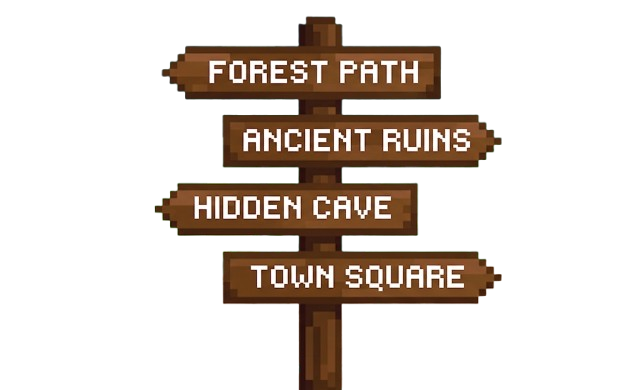
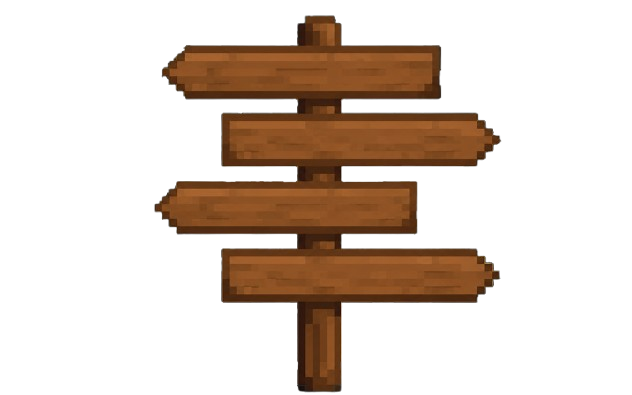
dashboard basically complete, and forest navigation page has been added, adn right now, treesapling gets planted on set time interval

Changed region(s): [[0.2405, 0.0308, 0.8117, 1.0]]

diff --git a/public/dashboard.html b/public/dashboard.html
@@ -9,35 +9,56 @@
 </head>
 <body>
     
-    <!--Big breakthrough here. Couldn't figure out how to center the text on teh sign post for a while! The main issue was felx, oncce removed it wokred, but i needed flex. 
+    <!--Big breakthrough here. Couldn't figure out how to center the text on teh sign post for a while! After some reserach, The main issue was felx, oncce removed it wokred, but i needed flex. 
     by default, tailwind flex prop appplies a stretch properpty to the items, and it stretched the sign to the height of the screen(the wrapper, not the img itself). 
     to stop this, I can use items-start to stop teh stretching and bring back to the actual size! Whew!
     -->
         <div class="mainDiv flex items-start  overflow-hidden w-screen h-screen relative">
-            
-            <div class="relative top-[45%] left-[46%] w-64 sm:w-72 md:w-80">
+            <div class="absolute top-[5%] left-[3%] w-64 sm:w-72 md:w-80">
+                <img class="w-14 h-14 rounded-full border-2 border-emerald-300" src="./assets/grid.png"/>
+            </div>
+
+            <div class="absolute top-[10%] left-[90%]">
+                <div class="absolute top-[36%] bottom-[40%] left-[22%] right-[22%] flex flex-col items-center justify-center gap-1 text-center px-6 z-10">
+                    <button onclick="connectHackatime()" class="bg-gradient-to-r from-emerald-600 to-emerald-800 text-white px-5 py-2 rounded-full font-bold shadow-xl hover:shadow-2xl hover:scale-105 transtion-all">
+                        Settings
+                    </button>
+                </div>
+            </div>
+
+            <div class="absolute top-[65%] left-[58%] w-64 sm:w-72 md:w-80">
                 <img class="w-full h-auto" src="./assets/signpost.png"/>
                 <div class="absolute top-[36%] bottom-[40%] left-[22%] right-[22%] flex flex-col items-center justify-center gap-1 text-center px-6 z-10">
                     <p class="text-lg text-white font-thin">Today's growth</p>
                     <p class="text-sm text-white">2h and 14mins till your next <span class="text-green-300">Sapling</span> </p>
                 </div>
             </div>
-            
 
-            <div class="relative top-[50%] left-[50%]">
+            <div class="absolute top-[38%] left-[35%]">
                 <img class="w-[80%] h-auto" src="./assets/directionalSign.png"/>
-                <div class="pt-10">
-            </div>
+                <div class="absolute top-[29%] left-[42%]">
+                    <button onclick="theForest()" class="text-white px-5 py-2 rounded-full shadow-xl hover:shadow-2xl hover:scale-105 transtion-all">
+                        Your Forest
+                    </button>
+                </div>
             </div>
 
-            <div class="relative top-[35%] left-[-35%]">
+            <div class="absolute top-[35%] left-[15%]">
                 <img class="w-80 h-150" src="./assets/signpost.png"/>
-                <p class="absolute top-[40px] left-[70px] z-10 text-lg text-white font-thing">Connect Hackatime</p>
+                <p class="absolute top-[40px] left-[70px] z-10 text-lg text-white">Your Forest</p>
+                <div class="absolute top-[36%] bottom-[40%] left-[22%] right-[22%] flex flex-col items-center justify-center gap-1 text-center px-6 z-10">
+                    hi
+                </div>
+            </div>
+
+            <div class="absolute top-[35%] left-[75%]">
+                <img class="w-80 h-150" src="./assets/signpost.png"/>
+                <p class="absolute top-[24.5%] left-[25%] z-10 text-lg text-white">Connect Hackatime</p>
                 <div class="absolute top-[36%] bottom-[40%] left-[22%] right-[22%] flex flex-col items-center justify-center gap-1 text-center px-6 z-10">
                     <div class="stat-card">
                         <p class="text-white font-thin" id="total-hours-display">Loading</p>
                     </div>
-                    <button onclick="connectHackatime()" class="bg-gradient-to-r from-green-600 to-brown-800 text-white px-5 py-2 rounded-full font-bold shadow-xl hover:shadow-2xl hover:scale-105 transtion-all">
+                    <button onclick="connectHackatime()" class="bg-gradient-to-r from-teal-500 to-teal-800 text-white px-5 py-2 rounded-full font-bold shadow-xl hover:shadow-2xl hover:scale-105 transtion-all">
                         Connect Hackatime
                     </button>
                 </div>
@@ -47,6 +68,13 @@
     <script>
         const client_id = "UvqLX8h40jmFW2BZKYimI73Vzn5mFOYVoPwAj24nkHI";
         const params = new URLSearchParams(window.location.search);
+        const hashParams = new URLSearchParams(window.location.hash.slice(1));
+
+        const tokFromRedir = hashParams.get("token");
+        if(tokFromRedir){
+            localStorage.setItem("hackatimetok", tokFromRedir);
+            history.replaceState(null, "", window.location.pathname);
+        }
         const code = params.get("code"); 
         let goal = 10;
 
@@ -60,14 +88,22 @@
             "http://localhost:3000/callback"
         );
 
+        function theForest() {
+            window.location.href = "/forest.html";
+        }
+
         function connectHackatime(){
             const authUrl=`https://hackatime.hackclub.com/oauth/authorize` + `?client_id=${client_id}` + `&redirect_uri=${redirect_uri}` + `&response_type=code` + `&scope=profile+read`;
             window.location.href = authUrl;
         }
 
         async function loadUserStats(){
+            const storedToken = localStorage.getItem("hackatimetok");
             try {
-                const res = await fetch("/api/stats", {cache:"no-store"});
+                const res = await fetch("/api/stats", {
+                    cache:"no-store",
+                    hedaers: storedToken ? {"Authorization":`Bearer ${storedToken}}`}:{}
+                });
 
                 if (!res.ok){
                     throw new Error("couldnt load")

diff --git a/public/forest.html b/public/forest.html
@@ -3,9 +3,40 @@
 <head>
     <meta charset="UTF-8">
     <meta name="viewport" content="width=device-width, initial-scale=1.0">
-    <title>Document</title>
+    <link rel="stylesheet" href="styles.css"/>
+    <script src="https://cdn.jsdelivr.net/npm/@tailwindcss/browser@4"></script>
+    <title>Forest</title>
 </head>
 <body>
-    
+    <div class="mainDiv h-screen w-screen relative">
+        <img src="./assets/topSignPost.png"/>
+        <div class="treeSap" id="treeSap">
+            
+        </div>
+        
+    </div>
+    <script src="hackatime.js"></script>
+    <script>
+        let treeCounter = 0;
+
+        async function putTreeSapling(){
+            try{
+                const stats = await getHackatimeStats();
+
+                document.getElementById("treeSap").innerHTML=stats.total_hours;
+                const horsDec = stats.total_seconds / 3600;
+                if(horsDec > 1){
+                    document.getElementById("treeSap").innerHTML = '<img class="w-64 h-64" src="./assets/treeSapling.png"/>';
+                    console.log("wow");
+                    treeCounter++;
+                    localStorage.setItem("treeSaplingsinForest", treeCounter)
+                }
+            }catch(err){
+                    console.error(err);
+                }
+        }
+
+        putTreeSapling();
+    </script>
 </body>
 </html>

diff --git a/server.js b/server.js
@@ -56,7 +56,7 @@ app.get("/callback", async (req,res) =>{
         const data = JSON.parse(rawResponse);
         console.log("succes!")
         userAccessTok=data.access_token;
-        res.redirect("/dashboard.html");
+        res.redirect(`/dashboard.html#token=${encodeURIComponent(data.access_token)}`);
     } catch (error) {
         console.error("Network Erro", error);
         res.status(500).send("error");
@@ -66,7 +66,11 @@ app.get("/callback", async (req,res) =>{
 //time to get data
 app.get("/api/stats", async (req,res) => {
     res.set("Cache-Control", "no-store");
-    if(!userAccessTok){return res.status(401).json({error: "no auth!"});}
+
+    const authHeader = req.headers.authorization;
+    const tok = authHeader?.startsWith("Bearer ") ? authHeader.slice(7):userAccessTok;
+
+    if(!tok){return res.status(401).json({error: "no auth!"});}
 
     try{
         const [hoursRes, projectsRes] = await Promise.all([
@@ -103,6 +107,7 @@ app.get("/api/stats", async (req,res) => {
 
         res.json({
             total_hours: `${hours}h ${minutes}m`,
+            total_seconds: totalSeconds,
             projects: projectsData.projects || []
         })
 

diff --git a/public/hackatime.js b/public/hackatime.js
@@ -1,0 +1,5 @@
+async function getHackatimeStats(){ 
+    const res = await fetch("/api/stats", {cache:"no-store"});
+    if(!res.ok) throw new Error("Couldn't load stats");
+    return await res.json();
+}

diff --git a/public/index.html b/public/index.html
@@ -19,8 +19,6 @@
         </div>
     </div>
     </div>
-    
-    
 <script>
     function main_dashboard(){
         window.location.href = "/dashboard.html";